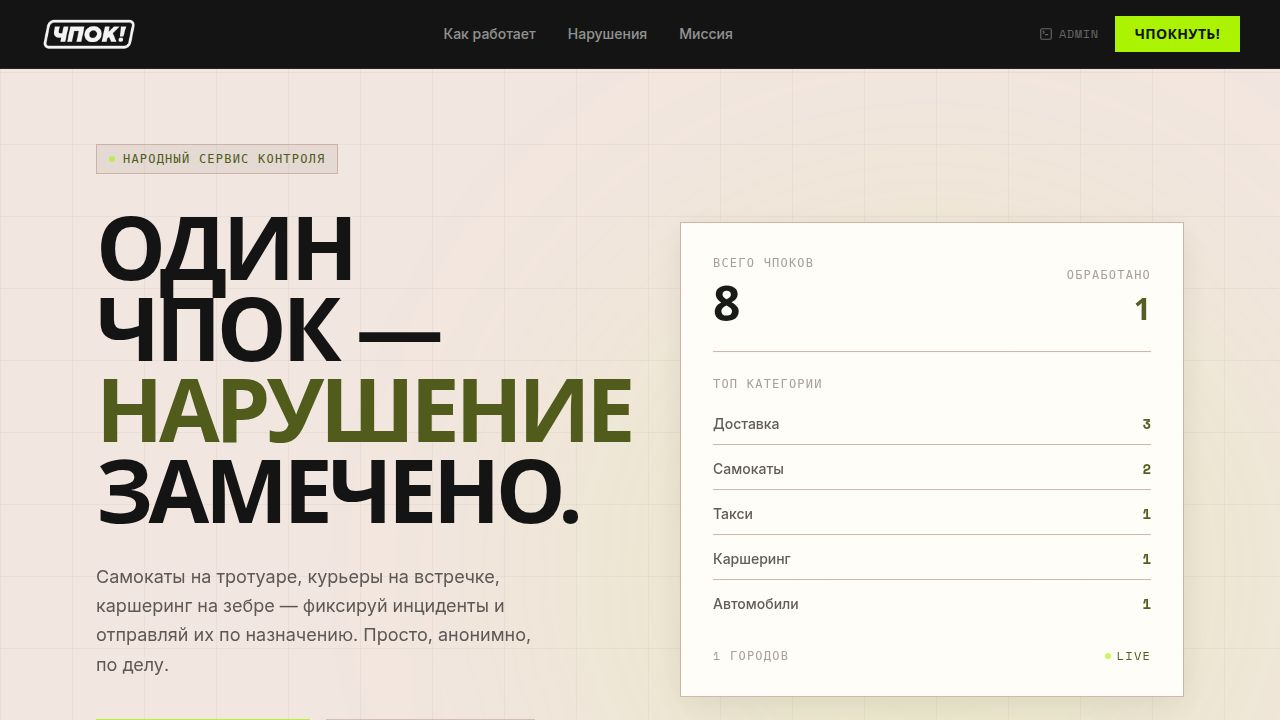
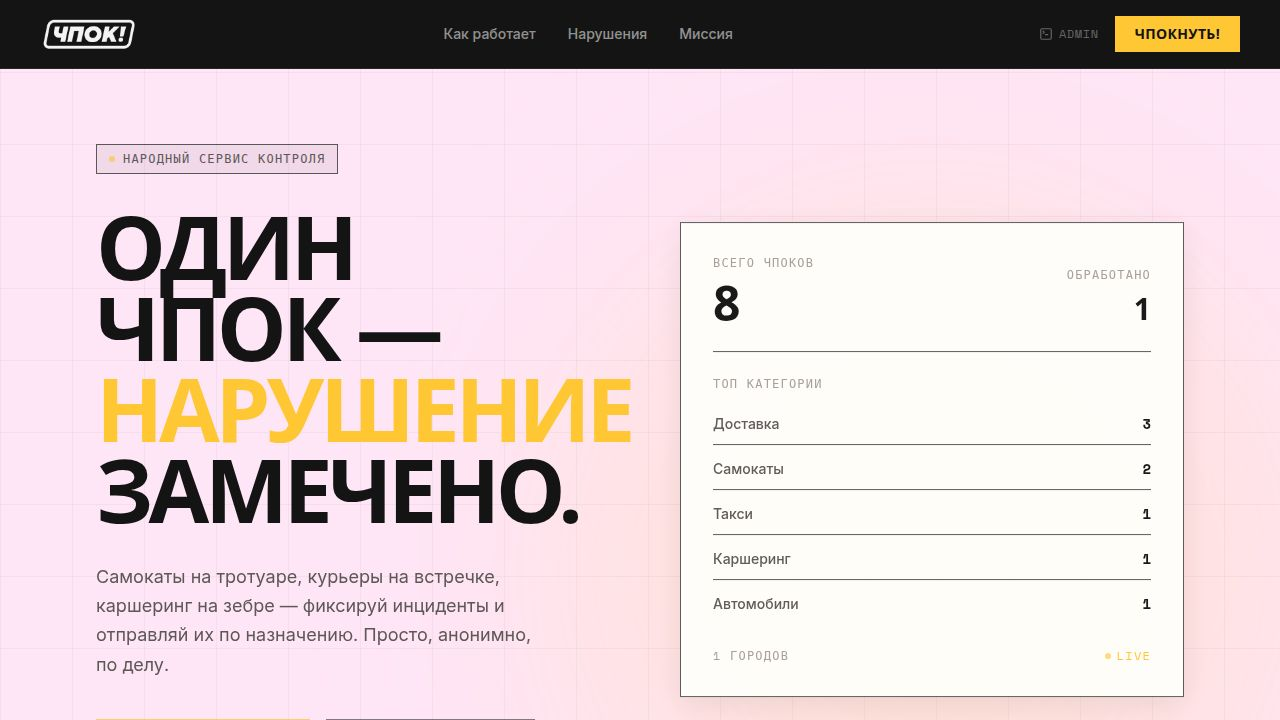
Update app and landing page to match new warm pink design system
Synchronize app and landing page color palettes, radius, and accent colors to align with the new Chpok design system, featuring a warm pink background and yellow accents.

Replit-Commit-Author: Agent
Replit-Commit-Session-Id: e7b6e4a2-734f-4b43-95bc-3d14a56af95d
Replit-Commit-Checkpoint-Type: full_checkpoint
Replit-Commit-Event-Id: 2bc6ecc6-c9db-46a3-a37b-fd22080aaffe
Replit-Commit-Screenshot-Url: https://storage.googleapis.com/screenshot-production-us-central1/bc101828-deef-47ac-9ae8-5fd7b906b6c3/e7b6e4a2-734f-4b43-95bc-3d14a56af95d/Hgc03Mr
Replit-Helium-Checkpoint-Created: true

diff --git a/artifacts/landing/src/pages/home.tsx b/artifacts/landing/src/pages/home.tsx
@@ -27,10 +27,11 @@ const categoryMap: Record<string, string> = {
 };
 
 const CHARCOAL = "#141414";
-const GREEN = "#ABF302";
-const WARM = "#F2E6E0";
+const YELLOW = "#FEC733";
+const PINK = "#FFE6F7";
 const SURFACE = "#FFFDF9";
-const BORDER = "#CEB1A7";
+const BORDER = "#585858";
+const BORDER_SOFT = "rgba(88,88,88,0.18)";
 
 export default function Home() {
   const { data: stats = mockStats } = useQuery({
@@ -85,9 +86,9 @@ export default function Home() {
           <a
             href="#download"
             className="font-display font-bold text-sm px-5 py-2 uppercase tracking-wide transition-colors"
-            style={{ background: GREEN, color: CHARCOAL }}
-            onMouseEnter={(e) => (e.currentTarget.style.background = "#BBFF33")}
-            onMouseLeave={(e) => (e.currentTarget.style.background = GREEN)}
+            style={{ background: YELLOW, color: CHARCOAL }}
+            onMouseEnter={(e) => (e.currentTarget.style.background = "#FFD84D")}
+            onMouseLeave={(e) => (e.currentTarget.style.background = YELLOW)}
           >
             Чпокнуть!
           </a>
@@ -97,7 +98,7 @@ export default function Home() {
       {/* ── HERO ── */}
       <section
         className="relative overflow-hidden pt-36 pb-28 px-6 md:px-12 lg:px-24"
-        style={{ background: WARM, color: CHARCOAL }}
+        style={{ background: PINK, color: CHARCOAL }}
       >
         <div
           className="absolute inset-0 pointer-events-none"
@@ -109,7 +110,7 @@ export default function Home() {
         />
         <div
           className="absolute top-1/4 right-0 w-[700px] h-[700px] pointer-events-none"
-          style={{ background: `${GREEN}18`, borderRadius: "50%", filter: "blur(140px)" }}
+          style={{ background: `${YELLOW}28`, borderRadius: "50%", filter: "blur(140px)" }}
         />
 
         <div className="max-w-7xl mx-auto relative z-10">
@@ -123,9 +124,9 @@ export default function Home() {
               <motion.div
                 variants={fadeUp}
                 className="inline-flex items-center gap-2 font-mono text-xs uppercase tracking-widest px-3 py-1.5 mb-8"
-                style={{ background: "rgba(20,20,20,0.06)", color: "#505B1C", border: `1px solid ${BORDER}` }}
+                style={{ background: "rgba(20,20,20,0.06)", color: "#5D5856", border: `1px solid ${BORDER}` }}
               >
-                <span className="w-1.5 h-1.5 rounded-full animate-pulse" style={{ background: GREEN }} />
+                <span className="w-1.5 h-1.5 rounded-full animate-pulse" style={{ background: YELLOW }} />
                 Народный сервис контроля
               </motion.div>
 
@@ -135,7 +136,7 @@ export default function Home() {
                 style={{ fontSize: "clamp(2.8rem, 7vw, 5.5rem)", color: CHARCOAL }}
               >
                 Один чпок —<br />
-                <span style={{ color: "#505B1C" }}>нарушение</span><br />
+                <span style={{ color: YELLOW }}>нарушение</span><br />
                 замечено.
               </motion.h1>
 
@@ -151,9 +152,9 @@ export default function Home() {
                 <a
                   href="#download"
                   className="font-display font-bold text-sm px-8 py-4 uppercase tracking-wide transition-colors flex items-center justify-center gap-2.5"
-                  style={{ background: GREEN, color: CHARCOAL }}
-                  onMouseEnter={(e) => (e.currentTarget.style.background = "#BBFF33")}
-                  onMouseLeave={(e) => (e.currentTarget.style.background = GREEN)}
+                  style={{ background: YELLOW, color: CHARCOAL }}
+                  onMouseEnter={(e) => (e.currentTarget.style.background = "#FFD84D")}
+                  onMouseLeave={(e) => (e.currentTarget.style.background = YELLOW)}
                 >
                   <Smartphone className="w-5 h-5" />
                   Скачать CHPOK
@@ -196,7 +197,7 @@ export default function Home() {
                   <div className="font-mono text-xs uppercase tracking-widest mb-2" style={{ color: "#A79E9A" }}>
                     Обработано
                   </div>
-                  <div className="font-display text-3xl font-bold" style={{ color: "#505B1C" }}>
+                  <div className="font-display text-3xl font-bold" style={{ color: CHARCOAL }}>
                     {stats.resolvedReports.toLocaleString("ru-RU")}
                   </div>
                 </div>
@@ -215,7 +216,7 @@ export default function Home() {
                     <span className="text-sm font-medium" style={{ color: "#5D5856" }}>
                       {categoryMap[cat.category] || cat.category}
                     </span>
-                    <span className="font-mono text-sm font-bold" style={{ color: "#505B1C" }}>
+                    <span className="font-mono text-sm font-bold" style={{ color: CHARCOAL }}>
                       {cat.count.toLocaleString("ru-RU")}
                     </span>
                   </div>
@@ -224,8 +225,8 @@ export default function Home() {
 
               <div className="flex justify-between items-center font-mono text-xs uppercase tracking-widest" style={{ color: "#A79E9A" }}>
                 <span>{stats.citiesCovered} городов</span>
-                <span className="flex items-center gap-1.5" style={{ color: "#505B1C" }}>
-                  <span className="w-1.5 h-1.5 rounded-full animate-pulse" style={{ background: GREEN }} />
+                <span className="flex items-center gap-1.5" style={{ color: YELLOW }}>
+                  <span className="w-1.5 h-1.5 rounded-full animate-pulse" style={{ background: YELLOW }} />
                   Live
                 </span>
               </div>
@@ -248,11 +249,11 @@ export default function Home() {
             variants={fadeUp}
             className="mb-16"
           >
-            <div className="font-mono text-xs uppercase tracking-widest mb-4" style={{ color: GREEN }}>
+            <div className="font-mono text-xs uppercase tracking-widest mb-4" style={{ color: YELLOW }}>
               // Всё просто
             </div>
             <h2 className="font-display font-bold uppercase tracking-tighter text-white" style={{ fontSize: "clamp(2rem, 5vw, 3.5rem)" }}>
-              Берёшь и <span style={{ color: GREEN }}>чпокаешь</span>
+              Берёшь и <span style={{ color: YELLOW }}>чпокаешь</span>
             </h2>
           </motion.div>
 
@@ -289,11 +290,11 @@ export default function Home() {
                 className="p-8 transition-transform duration-300 hover:-translate-y-1"
                 style={{
                   background: "rgba(255,255,255,0.04)",
-                  borderTop: `2px solid ${GREEN}`,
+                  borderTop: `2px solid ${YELLOW}`,
                 }}
               >
                 <div className="flex justify-between items-start mb-8">
-                  <step.icon className="w-7 h-7" style={{ color: GREEN }} strokeWidth={1.5} />
+                  <step.icon className="w-7 h-7" style={{ color: YELLOW }} strokeWidth={1.5} />
                   <span className="font-mono text-2xl font-bold" style={{ color: "rgba(255,255,255,0.15)" }}>
                     {step.num}
                   </span>
@@ -311,7 +312,7 @@ export default function Home() {
       </section>
 
       {/* ── WHAT WE TRACK ── */}
-      <section id="incidents" className="py-28 px-6 md:px-12 lg:px-24" style={{ background: WARM }}>
+      <section id="incidents" className="py-28 px-6 md:px-12 lg:px-24" style={{ background: PINK }}>
         <div className="max-w-7xl mx-auto">
           <motion.div
             initial="hidden"
@@ -333,7 +334,7 @@ export default function Home() {
             </div>
             <p
               className="text-sm leading-relaxed max-w-xs pl-4"
-              style={{ color: "#5D5856", borderLeft: `2px solid ${GREEN}` }}
+              style={{ color: "#5D5856", borderLeft: `2px solid ${YELLOW}` }}
             >
               Мобильный транспорт вышел из-под контроля? Фиксируем и передаём данные напрямую операторам и городским службам.
             </p>
@@ -368,7 +369,7 @@ export default function Home() {
                   </span>
                   <ArrowRight
                     className="w-4 h-4 opacity-0 group-hover:opacity-100 group-hover:translate-x-1 transition-all duration-200"
-                    style={{ color: GREEN }}
+                    style={{ color: YELLOW }}
                   />
                 </div>
                 <h3
@@ -387,7 +388,7 @@ export default function Home() {
       </section>
 
       {/* ── MANIFESTO ── */}
-      <section id="mission" className="py-28 px-6 md:px-12 lg:px-24" style={{ background: GREEN }}>
+      <section id="mission" className="py-28 px-6 md:px-12 lg:px-24" style={{ background: YELLOW }}>
         <div className="max-w-7xl mx-auto">
           <div className="grid grid-cols-1 lg:grid-cols-2 gap-20 items-start">
             <motion.div
@@ -398,7 +399,7 @@ export default function Home() {
             >
               <div
                 className="font-mono text-xs uppercase tracking-widest mb-6"
-                style={{ color: "#A79E9A" }}
+                style={{ color: "#5D5856" }}
               >
                 // Миссия
               </div>
@@ -435,7 +436,7 @@ export default function Home() {
               <div className="p-10" style={{ background: CHARCOAL }}>
                 <div
                   className="font-mono text-xs uppercase tracking-widest mb-8 pb-4"
-                  style={{ color: GREEN, borderBottom: "1px solid rgba(255,255,255,0.08)" }}
+                  style={{ color: YELLOW, borderBottom: "1px solid rgba(255,255,255,0.08)" }}
                 >
                   // Цели на 2026
                 </div>
@@ -446,7 +447,7 @@ export default function Home() {
                     "Штрафы на основе данных чпоков",
                   ].map((goal, i) => (
                     <li key={i} className="flex items-start gap-5">
-                      <span className="font-mono text-sm font-bold shrink-0 mt-0.5" style={{ color: GREEN }}>
+                      <span className="font-mono text-sm font-bold shrink-0 mt-0.5" style={{ color: YELLOW }}>
                         0{i + 1}.
                       </span>
                       <span
@@ -477,7 +478,7 @@ export default function Home() {
               className="inline-flex items-center justify-center w-14 h-14 mb-8"
               style={{ background: CHARCOAL }}
             >
-              <Smartphone className="w-6 h-6" style={{ color: GREEN }} />
+              <Smartphone className="w-6 h-6" style={{ color: YELLOW }} />
             </motion.div>
 
             <motion.h2
@@ -491,7 +492,7 @@ export default function Home() {
             <motion.p
               variants={fadeUp}
               className="text-lg leading-relaxed mb-10"
-              style={{ color: "rgba(23,25,28,0.55)" }}
+              style={{ color: "#5D5856" }}
             >
               Приложение скоро выйдет. Оставь почту — получишь ранний доступ и начнёшь делать город безопаснее первым.
             </motion.p>
@@ -517,7 +518,7 @@ export default function Home() {
                 className="font-display font-bold text-sm px-8 py-3.5 uppercase tracking-wide transition-colors"
                 style={{ background: CHARCOAL, color: "white" }}
                 onMouseEnter={(e) => {
-                  e.currentTarget.style.background = GREEN;
+                  e.currentTarget.style.background = YELLOW;
                   e.currentTarget.style.color = CHARCOAL;
                 }}
                 onMouseLeave={(e) => {

diff --git a/artifacts/landing/src/index.css b/artifacts/landing/src/index.css
@@ -76,35 +76,33 @@
   --elevate-1: rgba(0,0,0, .03);
   --elevate-2: rgba(0,0,0, .08);
 
-  /* Bold Neon Lime on Dark scheme by default, but this is light mode, so we invert: */
-  /* Wait, the prompt says "Vibe: confident, slightly edgy, street-smart". Dark mode default could be cool, but rules say: "Default to light mode." */
-  /* Let's use a stark Off-White and deep Charcoal with a piercing Acid Green accent. */
+  /* Chpok design system v3 — warm pink editorial */
   
-  --background: 20 42% 91%; /* #F2E6E0 */
+  --background: 319 100% 95%; /* #FFE6F7 */
   --foreground: 0 0% 8%; /* #141414 */
   
-  --border: 15 28% 73%; /* #CEB1A7 */
-  --input: 15 28% 73%;
-  --ring: 78 98% 48%; /* #ABF302 */
+  --border: 0 0% 35%; /* #585858 */
+  --input: 0 0% 35%;
+  --ring: 44 99% 60%; /* #FEC733 */
   
   --card: 43 100% 99%; /* #FFFDF9 */
   --card-foreground: 0 0% 8%;
-  --card-border: 15 23% 83%;
+  --card-border: 0 0% 35%;
   
   --popover: 43 100% 99%;
   --popover-foreground: 0 0% 8%;
-  --popover-border: 15 23% 83%;
+  --popover-border: 0 0% 35%;
   
-  --primary: 78 98% 48%; /* #ABF302 */
+  --primary: 44 99% 60%; /* #FEC733 */
   --primary-foreground: 0 0% 8%;
   
   --secondary: 0 0% 8%; /* #141414 */
-  --secondary-foreground: 20 42% 91%;
+  --secondary-foreground: 319 100% 95%;
   
-  --muted: 22 48% 81%; /* #E6C8B7 */
-  --muted-foreground: 19 7% 63%; /* #A79E9A */
+  --muted: 319 60% 88%;
+  --muted-foreground: 0 0% 36%; /* #5D5856-ish */
   
-  --accent: 48 97% 59%; /* #FCDB3C */
+  --accent: 44 99% 60%; /* #FEC733 */
   --accent-foreground: 0 0% 8%;
   
   --destructive: 0 84% 60%;

diff --git a/artifacts/app/constants/colors.ts b/artifacts/app/constants/colors.ts
@@ -1,34 +1,34 @@
 const colors = {
   light: {
     text: "#141414",
-    tint: "#ABF302",
+    tint: "#FEC733",
 
-    background: "#F2E6E0",
+    background: "#FFE6F7",
     foreground: "#141414",
 
     card: "#FFFDF9",
     cardForeground: "#141414",
 
-    primary: "#ABF302",
+    primary: "#FEC733",
     primaryForeground: "#141414",
 
     secondary: "#141414",
-    secondaryForeground: "#F2E6E0",
+    secondaryForeground: "#FFFDF9",
 
-    muted: "#E6C8B7",
-    mutedForeground: "#A79E9A",
+    muted: "#F5D0EE",
+    mutedForeground: "#5D5856",
 
-    accent: "#FCDB3C",
+    accent: "#FEC733",
     accentForeground: "#141414",
 
     destructive: "#EF4444",
     destructiveForeground: "#FFFFFF",
 
-    border: "#CEB1A7",
-    input: "#CEB1A7",
+    border: "#585858",
+    input: "#585858",
   },
 
-  radius: 0,
+  radius: 18,
 };
 
 export default colors;
